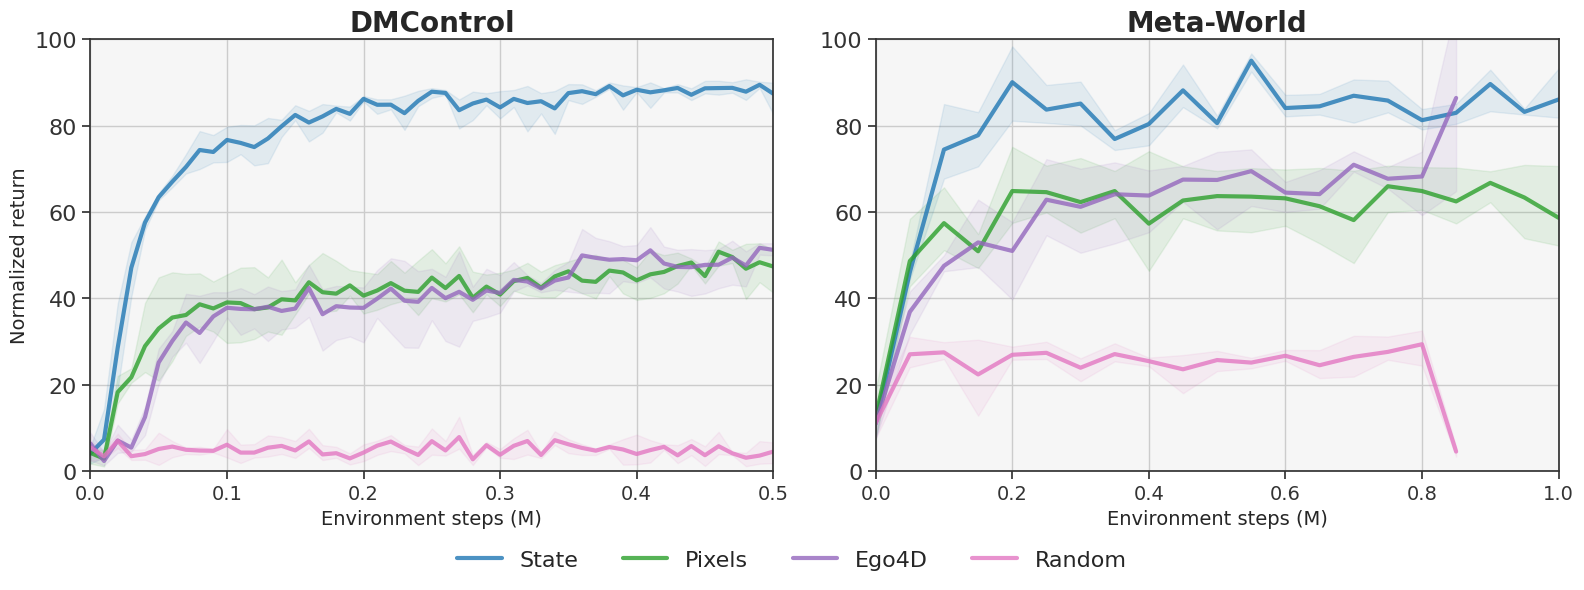
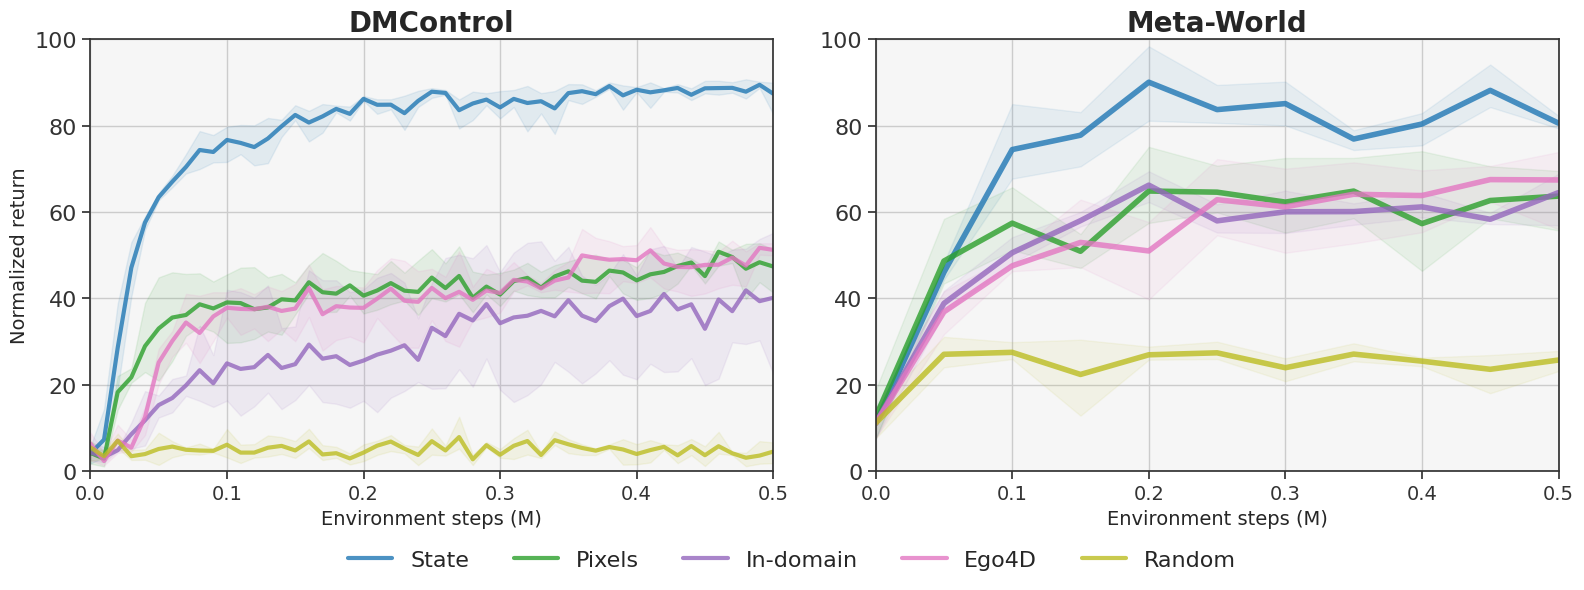
update bar + online + walltime plots

diff --git a/plot_walltime.py b/plot_walltime.py
@@ -13,7 +13,7 @@ DEFAULT_PLOT_RC = {
 	'axes.titlesize': 20,
 	'axes.facecolor': '#F6F6F6',
 	'axes.edgecolor': '#333',
-	'legend.fontsize': 16,
+	'legend.fontsize': 14,
 	'xtick.labelsize': 14,
 	'xtick.bottom': True,
 	'xtick.color': '#333',
@@ -31,7 +31,7 @@ def main():
 		'dmcontrol': ['cup-catch', 'finger-spin', 'cheetah-run', 'walker-run', 'quadruped-run'],
 		'metaworld': ['mw-drawer-close', 'mw-drawer-open', 'mw-hammer', 'mw-box-close', 'mw-pick-place']
 	}
-	exp_names = ['v1', 'mocodmcontrol-v1', 'mocometaworld-v1', 'mocoego-v1', 'random-v1']
+	exp_names = ['v1', 'offline-v1', 'mocodmcontrol-v1', 'mocodmcontrol-offline-v1', 'mocometaworld-v1', 'mocometaworld-offline-v1', 'mocoego-v1', 'mocoego-offline-v1', 'random-v1', 'random-offline-v1']
 	experiment2label = {
 		'state-v1': 'State',
 		'state-offline-v1': '✻ State',
@@ -72,7 +72,7 @@ def main():
 		   exp_name not in exp_names or \
 		   seed not in seeds:
 			continue
-		key = 'eval/episode_reward'
+		key = 'offline/total_time' if 'offline' in exp_name else 'eval/total_time'
 		hist = run.history(keys=[key], x_axis='_step')
 		if len(hist) < 4:
 			continue
@@ -81,103 +81,66 @@ def main():
 		idx = list(experiment2label.values()).index(label)
 		step = np.array(hist['_step'])
 		step = step[step <= 500_000]
-		reward = np.array(hist[key])
-		reward = reward[:min(len(step), len(reward))]
-		print(f'Appending experiment {label} with {len(step)} steps')
-		for i in range(len(step)):
-			entries.append(
-				(idx, cfg['task'], label, seed, step[i], reward[i])
-			)
+		walltime = np.array(hist[key])
+		walltime = 100_000 * walltime[:min(len(step), len(walltime))][-1] / step[-1]
+		print(f'Appending experiment {label} with walltime {round(walltime)}s per 100k steps')
+		entries.append(
+			(idx, cfg['task'], label, seed, walltime)
+		)
 	
-	df = pd.DataFrame(entries, columns=['idx', 'task', 'experiment', 'seed', 'step', 'reward'])
+	df = pd.DataFrame(entries, columns=['idx', 'task', 'experiment', 'seed', 'walltime'])
 	df_dmcontrol = df[df['task'].isin(tasks['dmcontrol'])]
 	df_metaworld = df[df['task'].isin(tasks['metaworld'])]
+
+	# average across tasks
+	df_dmcontrol = df_dmcontrol.groupby(['idx', 'experiment', 'seed']).mean().reset_index()
+	df_metaworld = df_metaworld.groupby(['idx', 'experiment', 'seed']).mean().reset_index()
 
 	# print unique experiments
 	print(df_dmcontrol['experiment'].unique())
 	print(df_metaworld['experiment'].unique())
-
-	# average across tasks
-	df_dmcontrol = df_dmcontrol.groupby(['idx', 'experiment', 'seed', 'step']).mean().reset_index()
-	df_metaworld = df_metaworld.groupby(['idx', 'experiment', 'seed', 'step']).mean().reset_index()
-
+	
 	# average across seeds
-	# df_dmcontrol = df_dmcontrol.groupby(['idx', 'experiment', 'step']).mean().reset_index()
-	# df_metaworld = df_metaworld.groupby(['idx', 'experiment', 'step']).mean().reset_index()
+	df_dmcontrol = df_dmcontrol.groupby(['idx', 'experiment']).mean().reset_index()
+	df_metaworld = df_metaworld.groupby(['idx', 'experiment']).mean().reset_index()
 
-	# rescale reward
-	df_dmcontrol['reward'] = df_dmcontrol['reward'] / 10
-	df_metaworld['reward'] = df_metaworld['reward'] / 45
+	# rescale walltime
+	df_dmcontrol['walltime'] = (df_dmcontrol['walltime'] / 60).round()
+	df_metaworld['walltime'] = (df_metaworld['walltime'] / 60).round()
 
-	# rescale step
-	df_dmcontrol['step'] = df_dmcontrol['step'] / 1e6
-	df_metaworld['step'] = df_metaworld['step'] / 1e6
-
-	f, axs = plt.subplots(1, 2, figsize=(16,6))
-
-	experiment2kwargs = {
-		'State': {'color': 'tab:blue'},
-		'Pixels': {'color': 'tab:green'},
-		'In-domain': {'color': 'tab:purple'},
-		'Ego4D': {'color': 'tab:pink'},
-		'Random': {'color': 'tab:olive'},
-	}
+	f, axs = plt.subplots(1, 2, figsize=(18,6))
 
 	# dmcontrol
 	ax = axs[0]
-	for experiment in experiment2kwargs.keys():
-		df_dmcontrol_exp = df_dmcontrol[df_dmcontrol['experiment'] == experiment]
-		sns.lineplot(
-				data=df_dmcontrol_exp,
-				x='step',
-				y=f'reward',
-				ci=95,
-				label=experiment,
-				color=experiment2kwargs[experiment]['color'],
-				legend=False,
-				linewidth=3,
-				linestyle='-',
-				alpha=0.8,
-				err_kws={'alpha': .095},
-				ax=ax
-			)
+	sns.barplot(data=df_dmcontrol, x='experiment', y='walltime', ax=ax, ci=None)
 	ax.set_title('DMControl', fontweight='bold')
-	ax.set_xlim(0, 0.5)
-	ax.set_ylim(0, 100)
-	ax.set_xlabel('Environment steps (M)')
-	ax.set_ylabel('Normalized return')
-
+	ax.set_ylim(0, 550)
+	ax.set_xlabel('')
+	ax.set_ylabel('Wall-time (min / 100k steps)')
+	ax.bar_label(ax.containers[0], fontsize=18)
+	ax.tick_params(labelrotation=35)
+	for i in range(1, len(df_dmcontrol), 2):
+		ax.containers[0].patches[i]._hatch = '//'
+		ax.containers[0].patches[i].set_facecolor(ax.containers[0].patches[i-1]._facecolor)
+	
 	# metaworld
 	ax = axs[1]
-	for experiment in experiment2kwargs.keys():
-		df_metaworld_exp = df_metaworld[df_metaworld['experiment'] == experiment]
-		sns.lineplot(
-				data=df_metaworld_exp,
-				x='step',
-				y=f'reward',
-				ci=95,
-				label=experiment,
-				color=experiment2kwargs[experiment]['color'],
-				legend=False,
-				linewidth=4,
-				linestyle='-',
-				alpha=0.8,
-				err_kws={'alpha': .08},
-				ax=ax
-			)
+	sns.barplot(data=df_metaworld, x='experiment', y='walltime', ax=ax, ci=None)
 	ax.set_title('Meta-World', fontweight='bold')
-	ax.set_xlim(0, 0.5)
-	ax.set_ylim(0, 100)
-	ax.set_xlabel('Environment steps (M)')
+	ax.set_ylim(0, 550)
+	ax.set_xlabel('')
 	ax.set_ylabel('')
+	ax.bar_label(ax.containers[0], fontsize=18)
+	ax.tick_params(labelrotation=35)
+	for i in range(1, len(df_metaworld), 2):
+		ax.containers[0].patches[i]._hatch = '//'
+		ax.containers[0].patches[i].set_facecolor(ax.containers[0].patches[i-1]._facecolor)
 
 	h, l = axs[0].get_legend_handles_labels()
-	f.legend(h, l, loc='lower center', ncol=5, frameon=False)
+	f.legend(h, l, loc='lower center', ncol=4, frameon=False)
 	plt.tight_layout()
-	f.subplots_adjust(bottom=0.2, wspace=0.15)
-	plt.savefig('plot_online_rl.png', bbox_inches='tight')
-
-
+	f.subplots_adjust(bottom=0.16, wspace=0.15)
+	plt.savefig('plot_walltime.png', bbox_inches='tight')
 
 
 if __name__ == '__main__':

diff --git a/plot_singletask.py b/plot_singletask.py
@@ -31,12 +31,16 @@ def main():
 		'dmcontrol': ['cup-catch', 'finger-spin', 'cheetah-run', 'walker-run', 'quadruped-run'],
 		'metaworld': ['mw-drawer-close', 'mw-drawer-open', 'mw-hammer', 'mw-box-close', 'mw-pick-place']
 	}
-	exp_names = ['v1', 'offline-v1', 'mocoego-v1', 'mocoego-offline-v1', 'random-v1', 'random-offline-v1']
+	exp_names = ['v1', 'offline-v1', 'mocodmcontrol-v1', 'mocodmcontrol-offline-v1', 'mocometaworld-v1', 'mocometaworld-offline-v1', 'mocoego-v1', 'mocoego-offline-v1', 'random-v1', 'random-offline-v1']
 	experiment2label = {
 		'state-v1': 'State',
 		'state-offline-v1': '✻ State',
 		'pixels-v1': 'Pixels',
 		'pixels-offline-v1': '✻ Pixels',
+		'features-mocodmcontrol-v1': 'In-domain',
+		'features-mocodmcontrol-offline-v1': '✻ In-domain',
+		'features-mocometaworld-v1': 'In-domain',
+		'features-mocometaworld-offline-v1': '✻ In-domain',
 		'features-mocoego-v1': 'Ego4D',
 		'features-mocoego-offline-v1': '✻ Ego4D',
 		'features-random-v1': 'Random',
@@ -74,8 +78,11 @@ def main():
 			continue
 		experiment = cfg['modality'] + '-' + exp_name
 		label = experiment2label[experiment]
-		idx = list(experiment2label.values()).index(label) 
-		reward = np.array(hist[key])[-1]
+		idx = list(experiment2label.values()).index(label)
+		step = np.array(hist['_step'])
+		step = step[step <= 500_000]
+		reward = np.array(hist[key])
+		reward = reward[:min(len(step), len(reward))][-1]
 		print(f'Appending experiment {label} with reward {reward}')
 		entries.append(
 			(idx, cfg['task'], label, seed, reward)
@@ -89,6 +96,10 @@ def main():
 	df_dmcontrol = df_dmcontrol.groupby(['idx', 'experiment', 'seed']).mean().reset_index()
 	df_metaworld = df_metaworld.groupby(['idx', 'experiment', 'seed']).mean().reset_index()
 
+	# print unique experiments
+	print(df_dmcontrol['experiment'].unique())
+	print(df_metaworld['experiment'].unique())
+	
 	# average across seeds
 	df_dmcontrol = df_dmcontrol.groupby(['idx', 'experiment']).mean().reset_index()
 	df_metaworld = df_metaworld.groupby(['idx', 'experiment']).mean().reset_index()
@@ -97,7 +108,7 @@ def main():
 	df_dmcontrol['reward'] = (df_dmcontrol['reward'] / 10).round()
 	df_metaworld['reward'] = (df_metaworld['reward'] / 45).round()
 
-	f, axs = plt.subplots(1, 2, figsize=(16,6))
+	f, axs = plt.subplots(1, 2, figsize=(18,6))
 
 	# dmcontrol
 	ax = axs[0]
